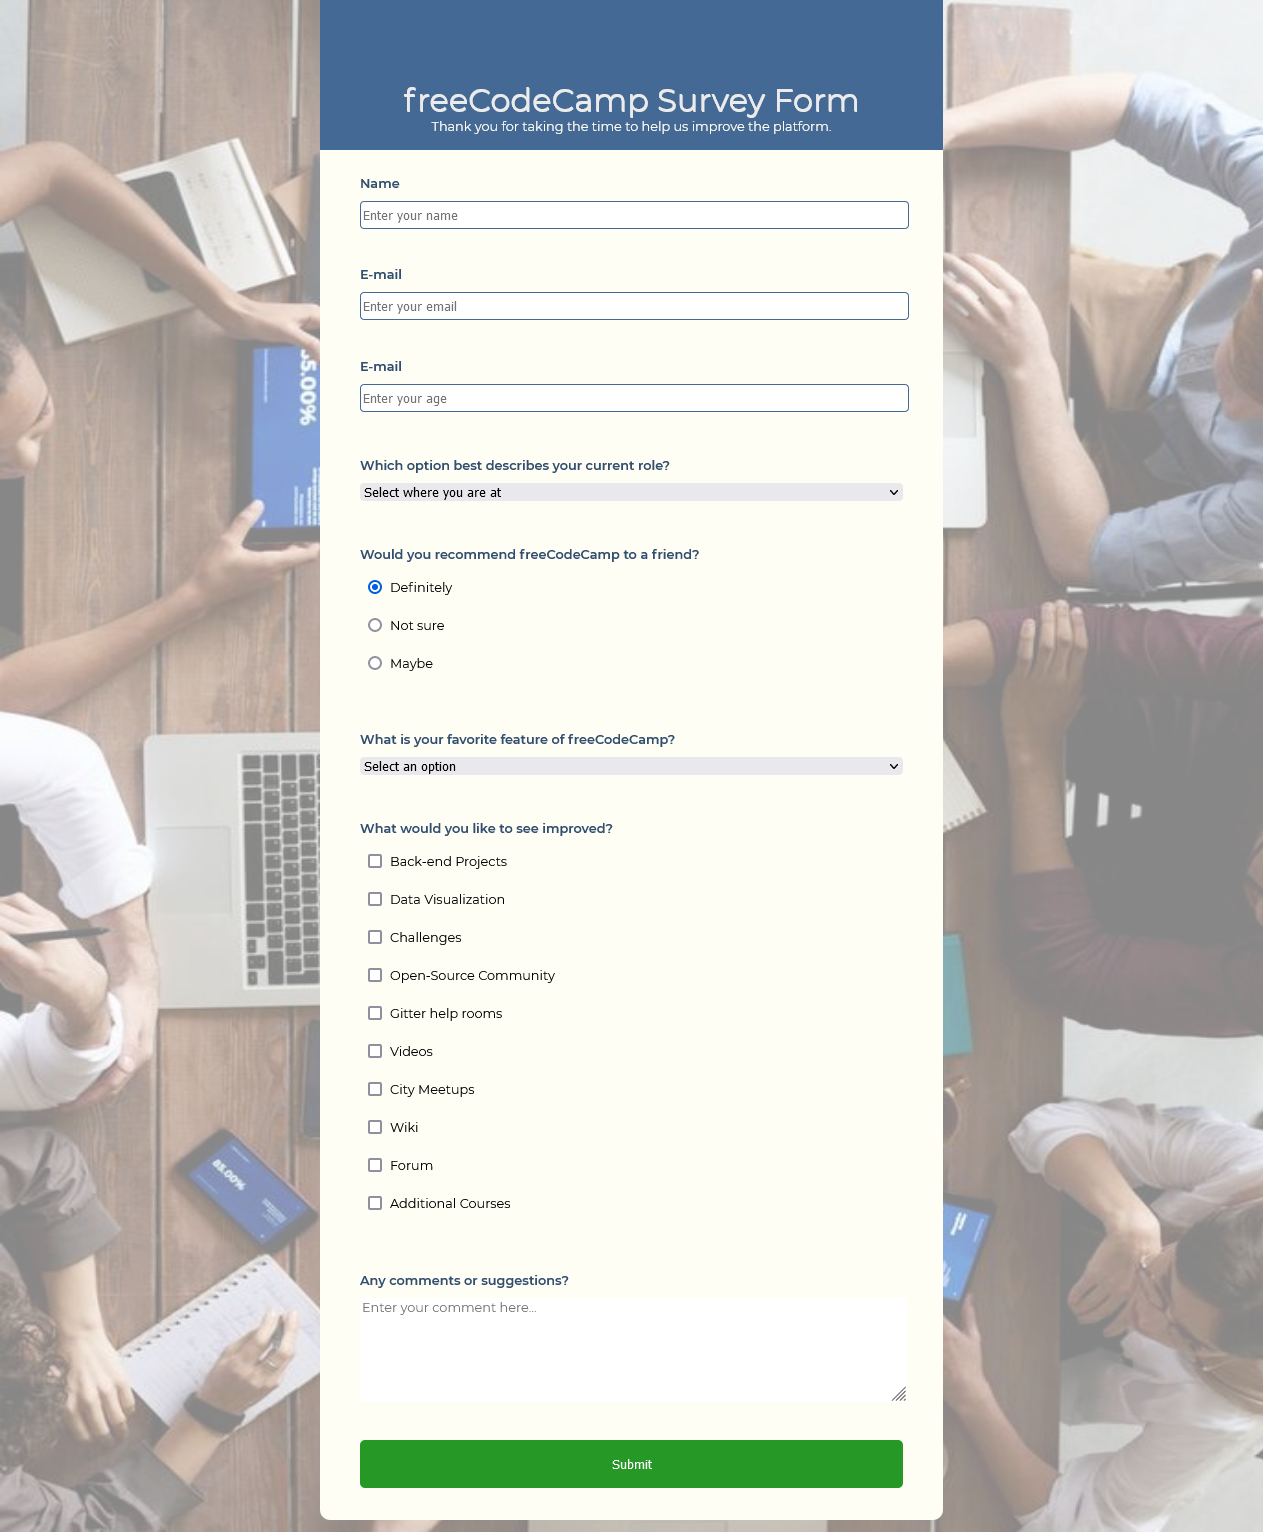
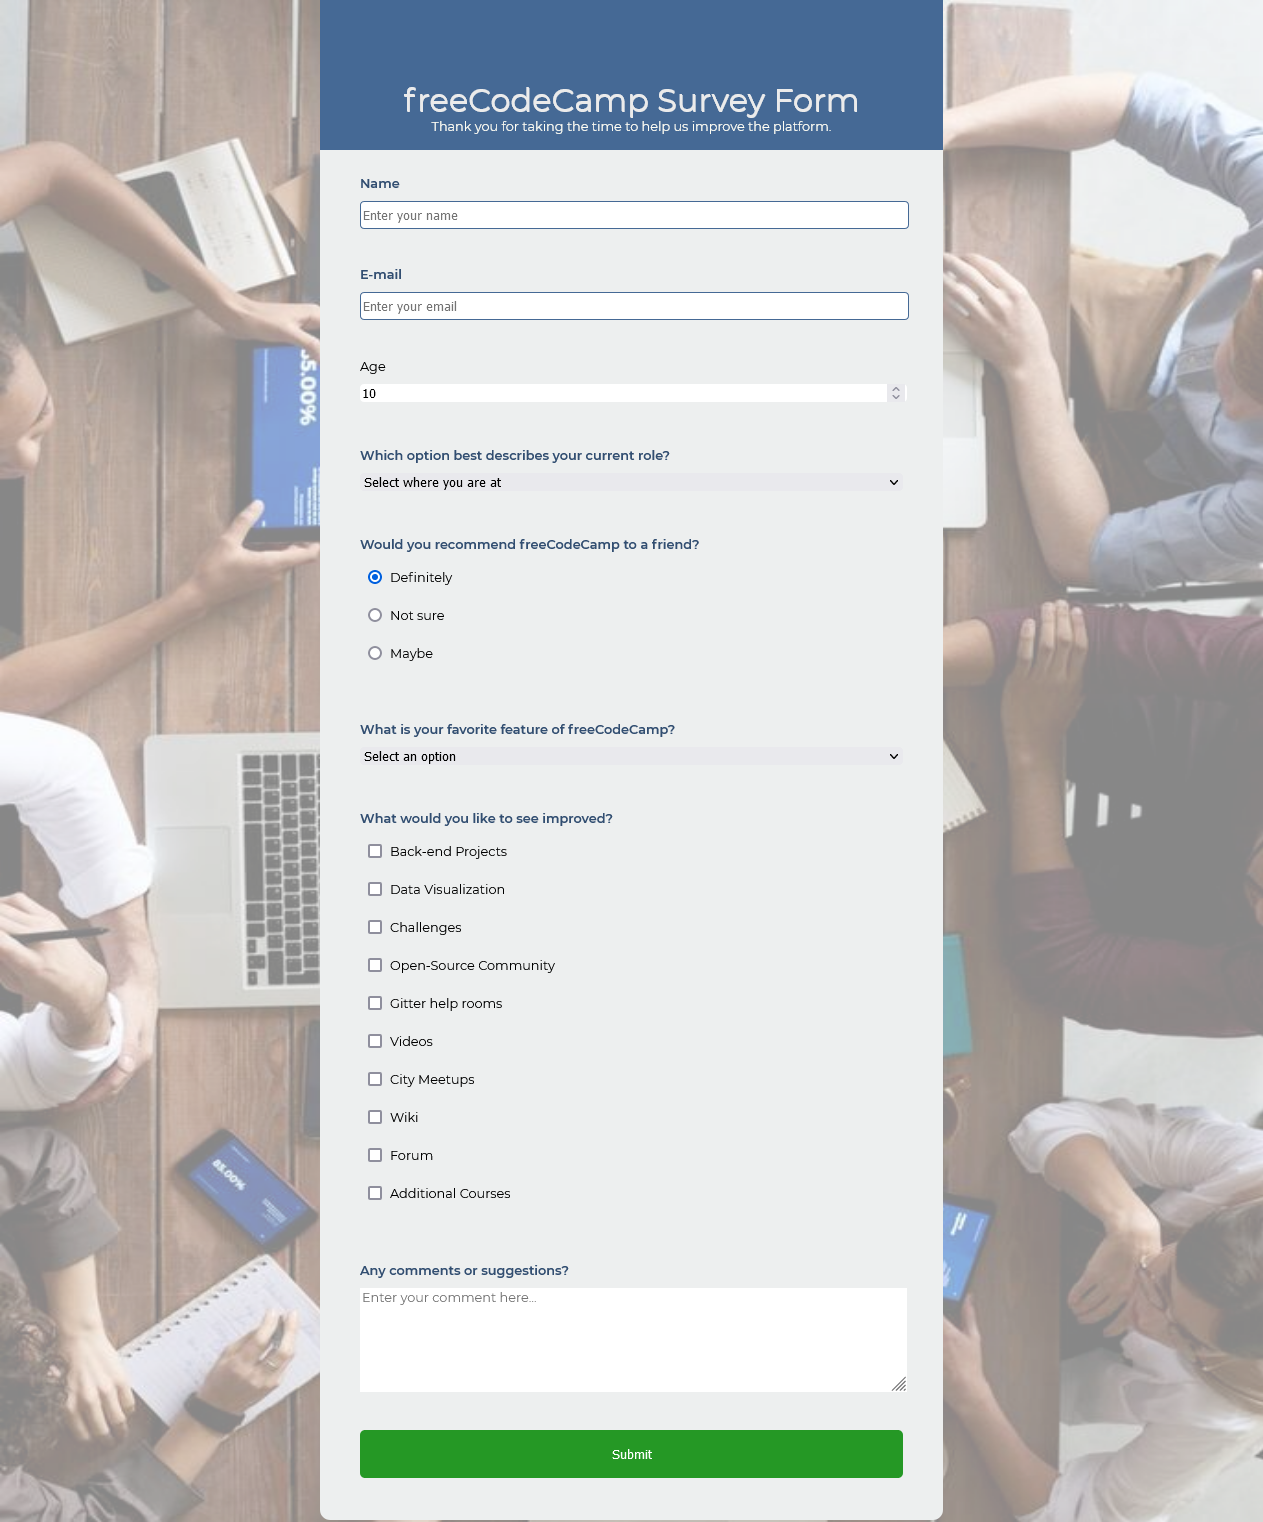
Fixed some typos and colors

diff --git a/index.html b/index.html
@@ -26,13 +26,13 @@
                 <label id="email-label" for="name">
                     E-mail 
                 </label>
-                <input id="email" class="form-control" type="text" name="email" placeholder="Enter your email" required="">
+                <input id="email" class="form-control" type="email" name="email" placeholder="Enter your email" required="">
             </div>
             <div class="form-group">
-                <label id="age-label" for="age">
-                    E-mail 
+                <label id="number-label" for="age">
+                    Age 
                 </label>
-                <input id="age" class="form-control" type="text" name="age" placeholder="Enter your age" required="">
+                <input id="number" class="form-control" type="number" name="age" min="10" max="100" placeholder="Enter your age" required="">
             </div>
             <div class="form-group">
                 <p class="questions">Which option best describes your current role?</p>

diff --git a/styles.css b/styles.css
@@ -12,7 +12,7 @@ body {
 }
 
 #main {
-    background-color: rgb(255, 254, 244);
+    background-color: #EDEFEF;
     text-align: center;
     height: 95rem;
     margin: 0 20rem 0 20rem;
@@ -67,7 +67,7 @@ label {
     color:rgb(50, 78, 113)
 }
 
-#name, #email, #age {
+#name, #email {
     display: block;
     border-style: solid;
     border-width: thin;
